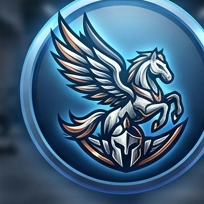
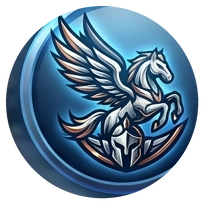
Assets de marca con transparencia real
- Avatar: máscara circular con antialias (adiós esquinas de fondo de gimnasio)
- Logo del hero: variante Flat Vector con chroma-key por distancia de color
  (fondo navy removido con borde suave); el efecto neón lo recrea CSS con
  drop-shadow Cosmic Blue sobre el Pegaso plateado transparente

diff --git a/app/src/app/features/landing/landing.html b/app/src/app/features/landing/landing.html
@@ -8,7 +8,7 @@
   </a>
 
   <div class="relative z-10" aparece>
-    <img src="logo-neon.png" alt="Pegasus Fit" class="w-44 sm:w-52 mx-auto drop-shadow-[0_0_35px_rgba(0,229,255,0.35)]" />
+    <img src="logo.png" alt="Pegasus Fit" class="w-48 sm:w-56 mx-auto drop-shadow-[0_0_28px_rgba(0,229,255,0.45)]" />
     <p class="text-cosmo text-xs font-bold tracking-[0.25em] uppercase mt-4">Despierta tu Cosmo · Forja tu Armadura</p>
     <h1 class="text-4xl sm:text-5xl font-extrabold leading-[1.05] mt-4 max-w-md mx-auto">
       El plan que<br /><span class="degradado">sí vas a cumplir</span>